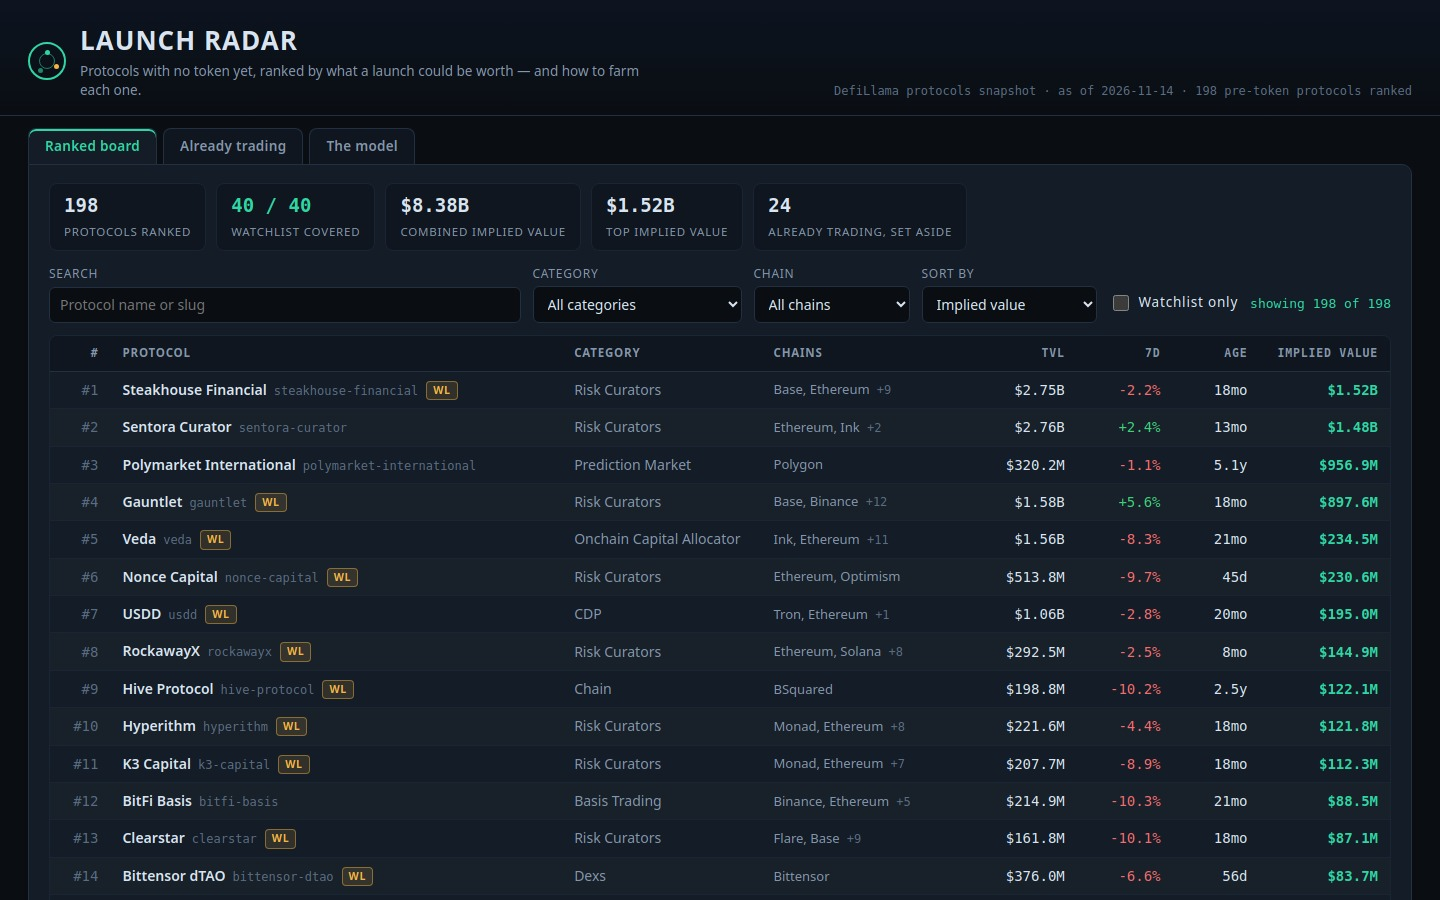
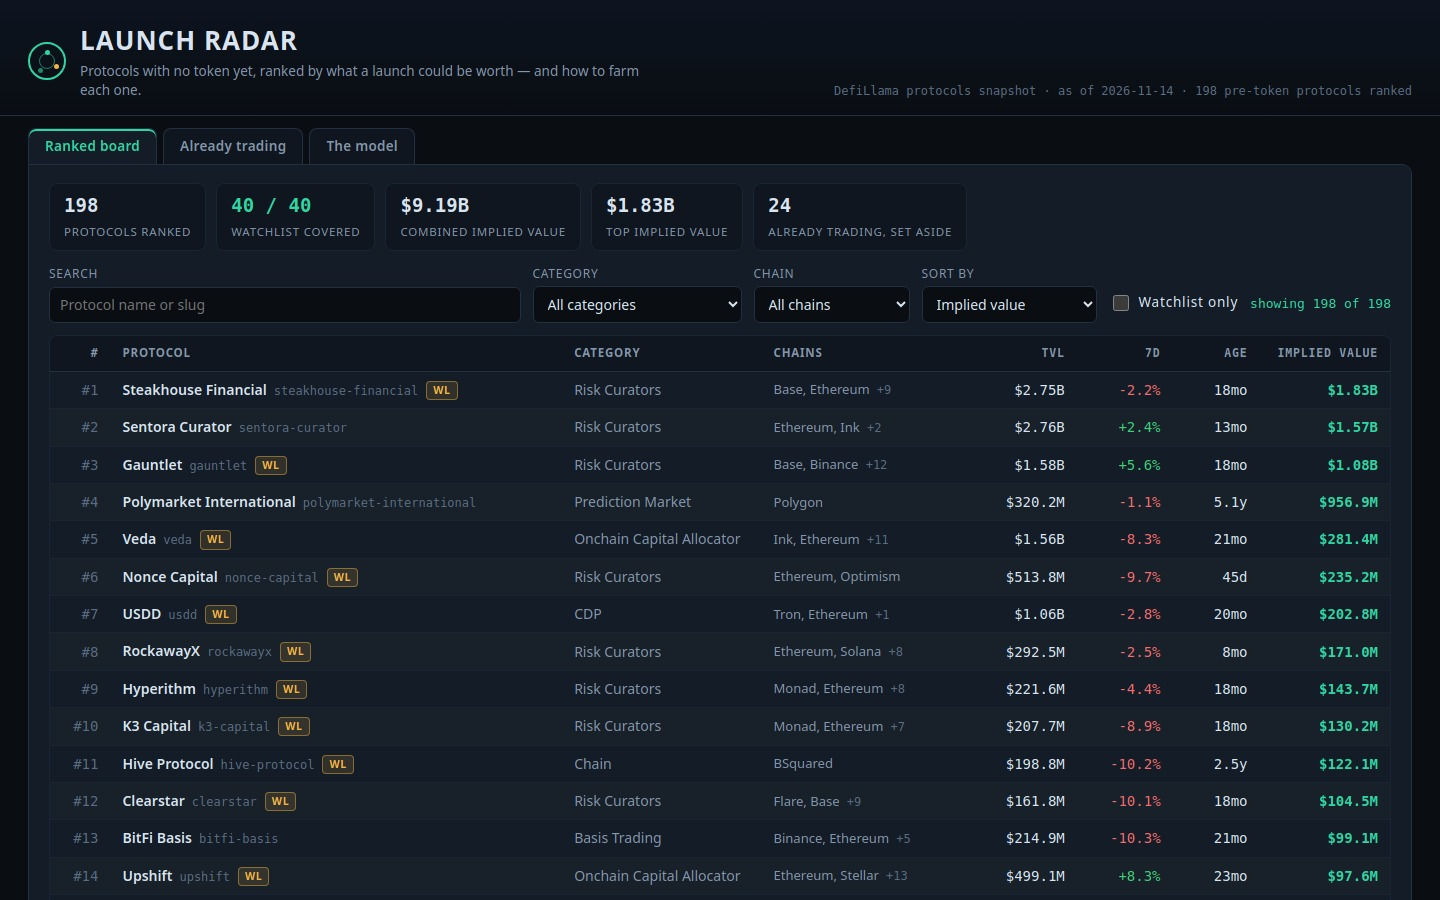
Model v2: add a multi-chain reach factor
Implied value now multiplies by reach = 1 + 0.02 x min(chains - 1, 10),
computed from each protocol's own chains record: x1.00 on one chain,
x1.20 on eleven or more. A protocol live on more chains offers more
surfaces to farm and more communities a launch would reach. The factor
is wired through the score, the board rows and the dashboard data, the
detail view's factor breakdown, the model page and the README; the
three screenshots are re-captured from the re-priced board.

diff --git a/lib/model.ts b/lib/model.ts
@@ -7,7 +7,7 @@
 //
 // Implied value is priced from the snapshot's own figures, the same function for every row:
 //
-//   implied = tvl_usd x peer_multiple(category) x momentum_factor x maturity_factor
+//   implied = tvl_usd x peer_multiple(category) x momentum_factor x maturity_factor x reach_factor
 //
 // - peer_multiple: the median market-cap-to-TVL ratio of the snapshot's already-tokened protocols
 //   in the same category — what the market itself pays per dollar of TVL for that kind of
@@ -19,6 +19,10 @@
 // - maturity_factor: the days the protocol has run with no token, listed_at to the snapshot's
 //   as_of, mapped linearly from MATURITY_BASE to MATURITY_BASE + MATURITY_SPAN over four years.
 //   A long tokenless track record is evidence of a real protocol with its launch still ahead.
+// - reach_factor: the number of chains the protocol is live on, 1 + REACH_PER_CHAIN for each
+//   chain past the first, capped at REACH_MAX_EXTRA_CHAINS extra chains (x1.00 on one chain,
+//   x1.20 on eleven or more). Every extra chain is another surface a farmer can qualify on and
+//   another community a launch would be distributed into, so breadth is worth a bounded premium.
 //
 // Farm plans are generated per protocol from its own record: the category picks the core action,
 // the first chain picks where gas is paid, the TVL tier sizes the capital, and the age sets the
@@ -59,6 +63,8 @@ export interface ModelConstants {
   maturity_span: number;
   maturity_days: number;
   unknown_age_days: number;
+  reach_per_chain: number;
+  reach_max_extra_chains: number;
 }
 
 export const MODEL: ModelConstants = {
@@ -72,10 +78,12 @@ export const MODEL: ModelConstants = {
   maturity_span: 0.45,
   maturity_days: 1460,
   unknown_age_days: 365,
+  reach_per_chain: 0.02,
+  reach_max_extra_chains: 10,
 };
 
 /** The model's version label: the dashboard names it and the README quotes it. */
-export const MODEL_VERSION = 'peer-multiple-1';
+export const MODEL_VERSION = 'peer-multiple-2';
 
 /** How many live-token protocols the dashboard's already-trading reference carries, by market cap. */
 export const LIVE_ROWS = 24;
@@ -103,6 +111,7 @@ export interface BoardRow {
     category_median: number | null;
     momentum_factor: number;
     maturity_factor: number;
+    reach_factor: number;
     age_days: number | null;
   };
   farm_steps: string[];
@@ -126,6 +135,7 @@ export interface RadarRow {
   category_median: number | null;
   momentum_factor: number;
   maturity_factor: number;
+  reach_factor: number;
   farm_steps: string[];
 }
 
@@ -293,6 +303,7 @@ export interface Score {
   peer: PeerMultiple;
   momentum_factor: number;
   maturity_factor: number;
+  reach_factor: number;
   age: number | null;
 }
 
@@ -305,8 +316,10 @@ export function scoreProtocol(p: SnapshotProtocol, asOf: string, peers: PeerTabl
   const age = ageDays(asOf, p.listed_at);
   const ageForModel = age ?? model.unknown_age_days;
   const maturity = model.maturity_base + (Math.min(Math.max(ageForModel, 0), model.maturity_days) / model.maturity_days) * model.maturity_span;
-  const implied = Math.max(1, Math.round(p.tvl_usd * peer.multiple * momentum * maturity));
-  return { implied, peer, momentum_factor: round4(momentum), maturity_factor: round4(maturity), age };
+  const extraChains = Math.min(Math.max(p.chains.length - 1, 0), model.reach_max_extra_chains);
+  const reach = 1 + model.reach_per_chain * extraChains;
+  const implied = Math.max(1, Math.round(p.tvl_usd * peer.multiple * momentum * maturity * reach));
+  return { implied, peer, momentum_factor: round4(momentum), maturity_factor: round4(maturity), reach_factor: round4(reach), age };
 }
 
 // ---------------------------------------------------------------------------
@@ -471,6 +484,7 @@ export function buildBoard(snapshot: Snapshot, model: ModelConstants = MODEL): B
       category_median: s.score.peer.category_median,
       momentum_factor: s.score.momentum_factor,
       maturity_factor: s.score.maturity_factor,
+      reach_factor: s.score.reach_factor,
       age_days: s.score.age,
     },
     farm_steps: farmSteps(s.p, s.score.age),
@@ -514,6 +528,7 @@ export function radarRow(row: BoardRow): RadarRow {
     category_median: row.model.category_median,
     momentum_factor: row.model.momentum_factor,
     maturity_factor: row.model.maturity_factor,
+    reach_factor: row.model.reach_factor,
     farm_steps: row.farm_steps,
   };
 }

diff --git a/dashboard/app.js b/dashboard/app.js
@@ -209,7 +209,7 @@
       'The board is the watchlist\u2019s own exclusion rule with its $50M TVL floor removed — wrapped, staked and bridged ' +
       'pass-throughs, exchange products and single-version pools stay out — which ranks ' + R.board_size +
       ' protocols and covers all ' + R.watchlist_size + ' watchlist names. One function prices every row; no name is special-cased.'));
-    var f = el('p', 'formula', 'implied value  =  TVL  \u00d7  peer multiple (category)  \u00d7  momentum factor  \u00d7  maturity factor');
+    var f = el('p', 'formula', 'implied value  =  TVL  \u00d7  peer multiple (category)  \u00d7  momentum factor  \u00d7  maturity factor  \u00d7  reach factor');
     box.appendChild(f);
 
     box.appendChild(el('h3', null, 'Peer multiple — what the market pays per TVL dollar'));
@@ -231,6 +231,13 @@
       'Days from the protocol\u2019s listing date to the snapshot date, mapped linearly from ' + m.maturity_base + ' to ' +
       (m.maturity_base + m.maturity_span).toFixed(2) + ' over ' + m.maturity_days + ' days. A long tokenless track record is evidence ' +
       'of a real, durable protocol whose launch is still ahead of it. An unknown listing date counts as ' + m.unknown_age_days + ' days.'));
+
+    box.appendChild(el('h3', null, 'Reach factor — how many chains it is live on'));
+    box.appendChild(el('p', null,
+      'The number of chains in the protocol\u2019s own record: factor = 1 + ' + m.reach_per_chain + ' \u00d7 extra chains, counting at most ' +
+      m.reach_max_extra_chains + ' extra, so a single-chain protocol scores \u00d71.00 and one live on eleven or more chains scores \u00d7' +
+      (1 + m.reach_per_chain * m.reach_max_extra_chains).toFixed(2) + '. Every extra chain is another surface a farmer can qualify on ' +
+      'and another community a launch would be distributed into, so breadth earns a bounded premium rather than none.'));
 
     box.appendChild(el('h3', null, 'Farm plans'));
     box.appendChild(el('p', 'note',
@@ -281,10 +288,12 @@
     factRow(facts, 'Momentum \u00d7 — 7d TVL change ' + fmtPct(r.change_7d), '\u00d7 ' + r.momentum_factor.toFixed(4));
     factRow(facts, 'Maturity \u00d7 — ' + (r.age_days === null ? 'listing date unknown' : r.age_days + ' days without a token') +
       (r.listed_at ? ' (listed ' + r.listed_at + ')' : ''), '\u00d7 ' + r.maturity_factor.toFixed(4));
+    factRow(facts, 'Reach \u00d7 — live on ' + r.chains.length + (r.chains.length === 1 ? ' chain' : ' chains') +
+      (r.chains.length > 0 ? ' (' + r.chains.slice(0, 4).join(', ') + (r.chains.length > 4 ? ', \u2026' : '') + ')' : ''), '\u00d7 ' + r.reach_factor.toFixed(4));
     factRow(facts, 'Implied value', fmtFull(r.implied_value_usd), true);
     why.appendChild(facts);
     why.appendChild(el('p', 'factor-note',
-      'The same three factors price every row on the board; only the protocol\u2019s own figures change.'));
+      'The same four factors price every row on the board; only the protocol\u2019s own figures change.'));
     grid.appendChild(why);
 
     var plan = el('div', 'card');

diff --git a/README.md b/README.md
@@ -4,7 +4,7 @@
 [![rank](https://make.fun/badge/token-radar-01/verad-xe/launch-radar/rank.svg)](https://make.fun/bounty/token-radar-01/leaderboard?utm_source=github&utm_medium=readme&utm_campaign=token-radar-01)
 [![reward](https://make.fun/badge/token-radar-01/verad-xe/launch-radar/reward.svg)](https://make.fun/bounty/token-radar-01?utm_source=github&utm_medium=readme&utm_campaign=token-radar-01)
 
-Launch Radar ranks 198 protocols that record no token yet by what a launch could be worth, using a value model derived entirely from the sealed snapshot's own figures: each protocol's TVL is priced at its category's peer multiple, then adjusted for seven-day TVL momentum and for how long the protocol has run without a token. Every row carries a concrete farm plan with costs and durations. The dashboard is a sortable, filterable board with a per-protocol detail view that shows the model's factor breakdown, plus a reference view of protocols whose tokens already trade, kept apart from the ranked board.
+Launch Radar ranks 198 protocols that record no token yet by what a launch could be worth, using a value model derived entirely from the sealed snapshot's own figures: each protocol's TVL is priced at its category's peer multiple, then adjusted for seven-day TVL momentum, for how long the protocol has run without a token, and for how many chains it is live on. Every row carries a concrete farm plan with costs and durations. The dashboard is a sortable, filterable board with a per-protocol detail view that shows the model's factor breakdown, plus a reference view of protocols whose tokens already trade, kept apart from the ranked board.
 
 ## Run it
 
@@ -23,12 +23,13 @@ The model lives in `lib/model.ts` and scores every protocol with the same functi
 **Implied value.** For each candidate:
 
 ```
-implied_value_usd = TVL x peer_multiple(category) x momentum_factor x maturity_factor
+implied_value_usd = TVL x peer_multiple(category) x momentum_factor x maturity_factor x reach_factor
 ```
 
 - **Peer multiple.** For every category, the model collects the snapshot's already-tokened protocols in that category and takes the median of their market-cap-to-TVL ratios — what the market actually pays per dollar of TVL for that kind of protocol. Small samples are shrunk toward the market-wide median (weight 6): `multiple = (n x category_median + 6 x global_median) / (n + 6)`, and the result is clamped to [0.03, 2.5] so a thin or eccentric category cannot dominate. A category with no tokened peers uses the global median.
 - **Momentum factor.** The seven-day TVL change, clamped to [-50%, +100%], scaled by 0.35: `1 + clamped_change / 100 x 0.35`. A protocol growing into its launch is worth more than one bleeding TVL; an unreported change is neutral.
 - **Maturity factor.** Days between `listed_at` and the snapshot's `as_of`, mapped linearly from 0.75 (brand new) to 1.20 (four years or more without a token): a long tokenless track record is evidence the protocol is real, durable and still has its launch ahead of it. An unknown listing date counts as one year.
+- **Reach factor.** The number of chains in the protocol's `chains` record: `1 + 0.02 x min(chain_count - 1, 10)`, so a single-chain protocol scores 1.00 and one live on eleven or more chains scores 1.20. A protocol live on more chains offers more surfaces to farm and more communities a token would be distributed into, so breadth earns a bounded premium.
 
 **Farm plans.** Each row's plan is generated from that protocol's own record — its category decides the core action (supply and borrow for lending, swap and provide liquidity for a DEX, deposit into curated vaults for a risk curator, and so on), its first chain decides where gas is paid, its TVL tier sizes the suggested capital ($50–$500), and its age sets the holding window (3–8 weeks). Every step states what it costs and how long it takes.
 
